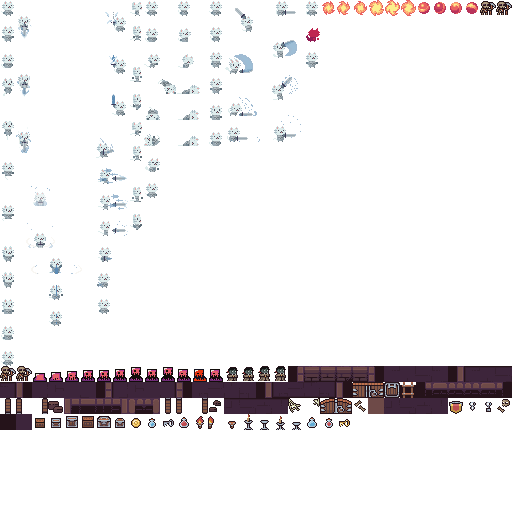
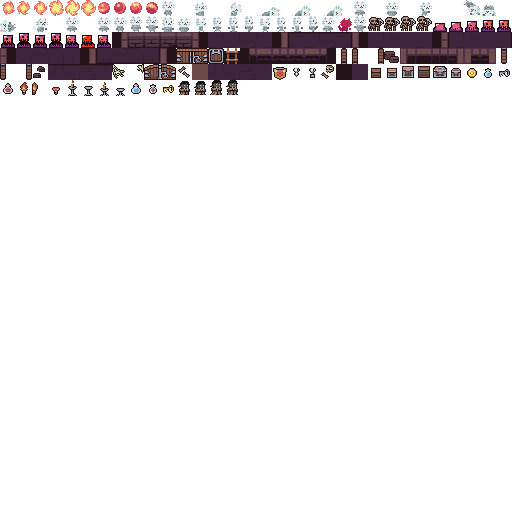
feat: add knight and fire animations

diff --git a/src/system/draw.c b/src/system/draw.c
@@ -22,21 +22,27 @@ static void drawPlayers(Game_System *game) {
   Player *players = game->players;
   int player_num = game->num_of_players;
 
-  SpriteAnimation idle = createSpriteAnimation(4,
+  SpriteAnimation idle = createSpriteAnimation(6,
                                                (char *[]){
-                                                   "slime_0_0",
-                                                   "slime_0_1",
-                                                   "slime_0_2",
-                                                   "slime_0_3",
+                                                   "Meow-Knight_Idle_0_0",
+                                                   "Meow-Knight_Idle_1_0",
+                                                   "Meow-Knight_Idle_2_0",
+                                                   "Meow-Knight_Idle_3_0",
+                                                   "Meow-Knight_Idle_4_0",
+                                                   "Meow-Knight_Idle_5_0",
                                                },
                                                6, true);
 
-  SpriteAnimation walk = createSpriteAnimation(4,
+  SpriteAnimation walk = createSpriteAnimation(8,
                                                (char *[]){
-                                                   "slime_1_0",
-                                                   "slime_1_1",
-                                                   "slime_1_2",
-                                                   "slime_1_3",
+                                                   "Meow-Knight_Run_0_0",
+                                                   "Meow-Knight_Run_1_0",
+                                                   "Meow-Knight_Run_2_0",
+                                                   "Meow-Knight_Run_3_0",
+                                                   "Meow-Knight_Run_4_0",
+                                                   "Meow-Knight_Run_5_0",
+                                                   "Meow-Knight_Run_6_0",
+                                                   "Meow-Knight_Run_7_0",
                                                },
                                                8, true);
 
@@ -63,14 +69,27 @@ static void drawBullets(Game_System *game) {
   int bulletNum = game->num_of_bullets;
   Bullet *bullets = game->bullets;
 
+  SpriteAnimation fireAnime = createSpriteAnimation(6,
+                                                    (char *[]){
+                                                        "fire_1_0_0",
+                                                        "fire_1_0_1",
+                                                        "fire_1_0_2",
+                                                        "fire_1_0_3",
+                                                        "fire_1_0_4",
+                                                        "fire_1_0_5",
+                                                    },
+                                                    12, true);
+
   while (bulletNum--) {
     Vector2 pos = bullets->position;
-    Rectangle dest = {pos.x, pos.y, 16, 16};
-    DrawAtlasSpritePro("tile_7_7", dest, (Vector2){0, 0}, 0, WHITE, false);
+    Rectangle dest = {pos.x, pos.y, 32, 32};
+    drawSpriteAnimationPro(&fireAnime, dest, (Vector2){0, 0}, 0, WHITE, false);
     bullets->position.x += bullets->bulletSpeed * cos(bullets->angle * DEG2RAD);
     bullets->position.y += bullets->bulletSpeed * sin(bullets->angle * DEG2RAD);
     bullets++;
   }
+
+  disposeSpriteAnimation(&fireAnime);
 }
 
 void drawScene() {
@@ -79,7 +98,6 @@ void drawScene() {
   ClearBackground(GetColor(0x052c46ff));
 
   drawPlayers(gameSystemInstance);
-  drawBullets(gameSystemInstance);
 
   // TODO: Delete Me later
   // Example for using atlas
@@ -87,19 +105,34 @@ void drawScene() {
   // 0, WHITE, false);
 
   // TODO: Delete Me later
-  SpriteAnimation anim = createSpriteAnimation(4,
-                                               (char *[]){
-                                                   "vampire_1",
-                                                   "vampire_2",
-                                                   "vampire_3",
-                                                   "vampire_4",
-                                               },
-                                               6, true);
+  SpriteAnimation vampire = createSpriteAnimation(4,
+                                                  (char *[]){
+                                                      "vampire_1",
+                                                      "vampire_2",
+                                                      "vampire_3",
+                                                      "vampire_4",
+                                                  },
+                                                  6, true);
 
-  drawSpriteAnimationPro(&anim, (Rectangle){128, 128, 64, 64}, (Vector2){0, 0},
-                         0, WHITE, false);
+  SpriteAnimation slime = createSpriteAnimation(4,
+                                                (char *[]){
+                                                    "slime_1_0",
+                                                    "slime_1_1",
+                                                    "slime_1_2",
+                                                    "slime_1_3",
+                                                },
+                                                6, true);
 
-  disposeSpriteAnimation(&anim);
+  drawSpriteAnimationPro(&vampire, (Rectangle){128, 128, 64, 64},
+                         (Vector2){0, 0}, 0, WHITE, false);
 
+  drawSpriteAnimationPro(&slime,
+                         (Rectangle){SCREEN_WIDTH - 128 - 64, 128, 64, 64},
+                         (Vector2){0, 0}, 0, WHITE, true);
+
+  drawBullets(gameSystemInstance);
+
+  disposeSpriteAnimation(&slime);
+  disposeSpriteAnimation(&vampire);
   EndDrawing();
 }
